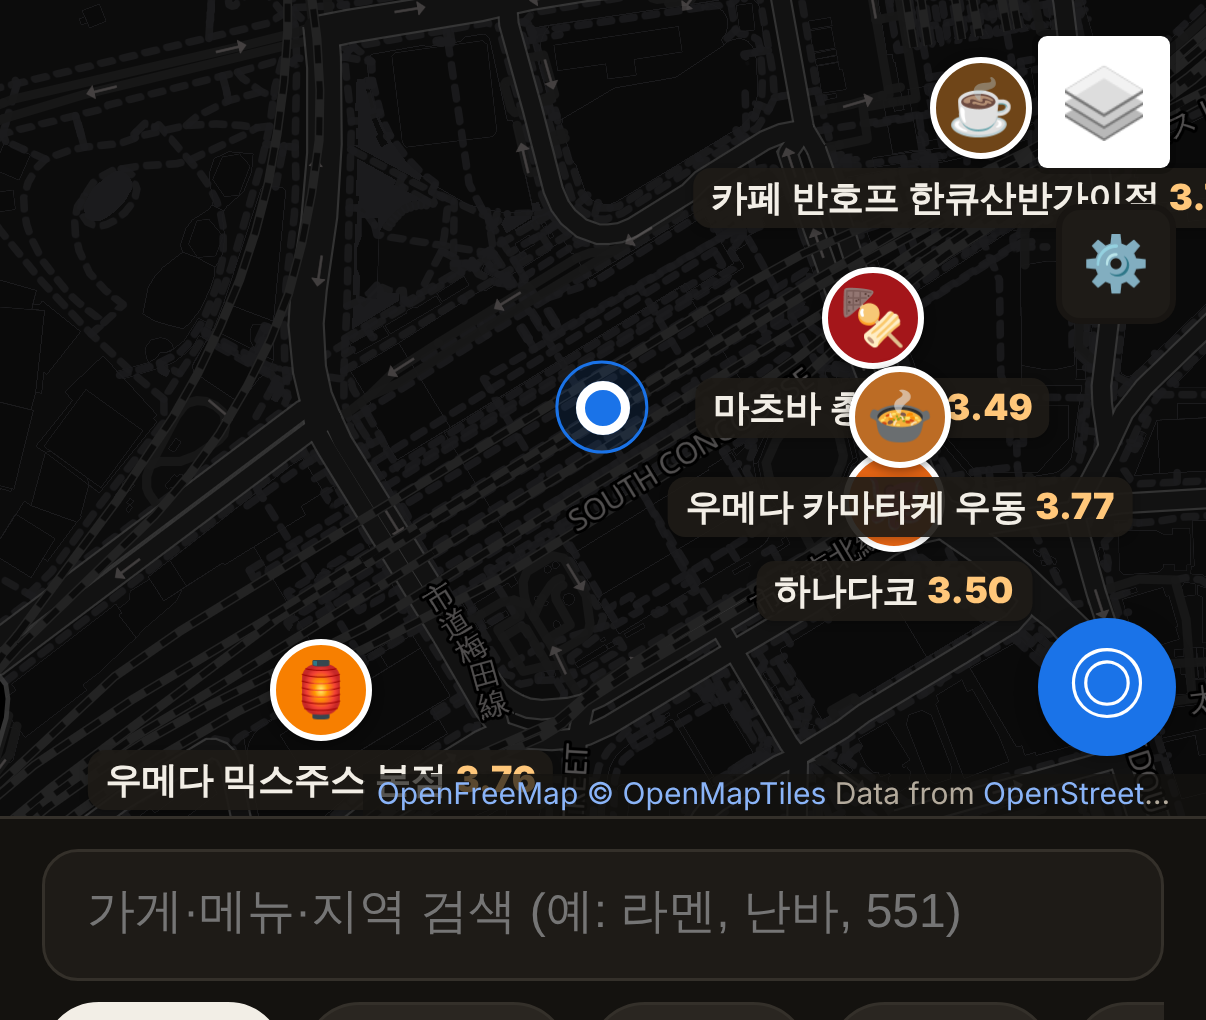
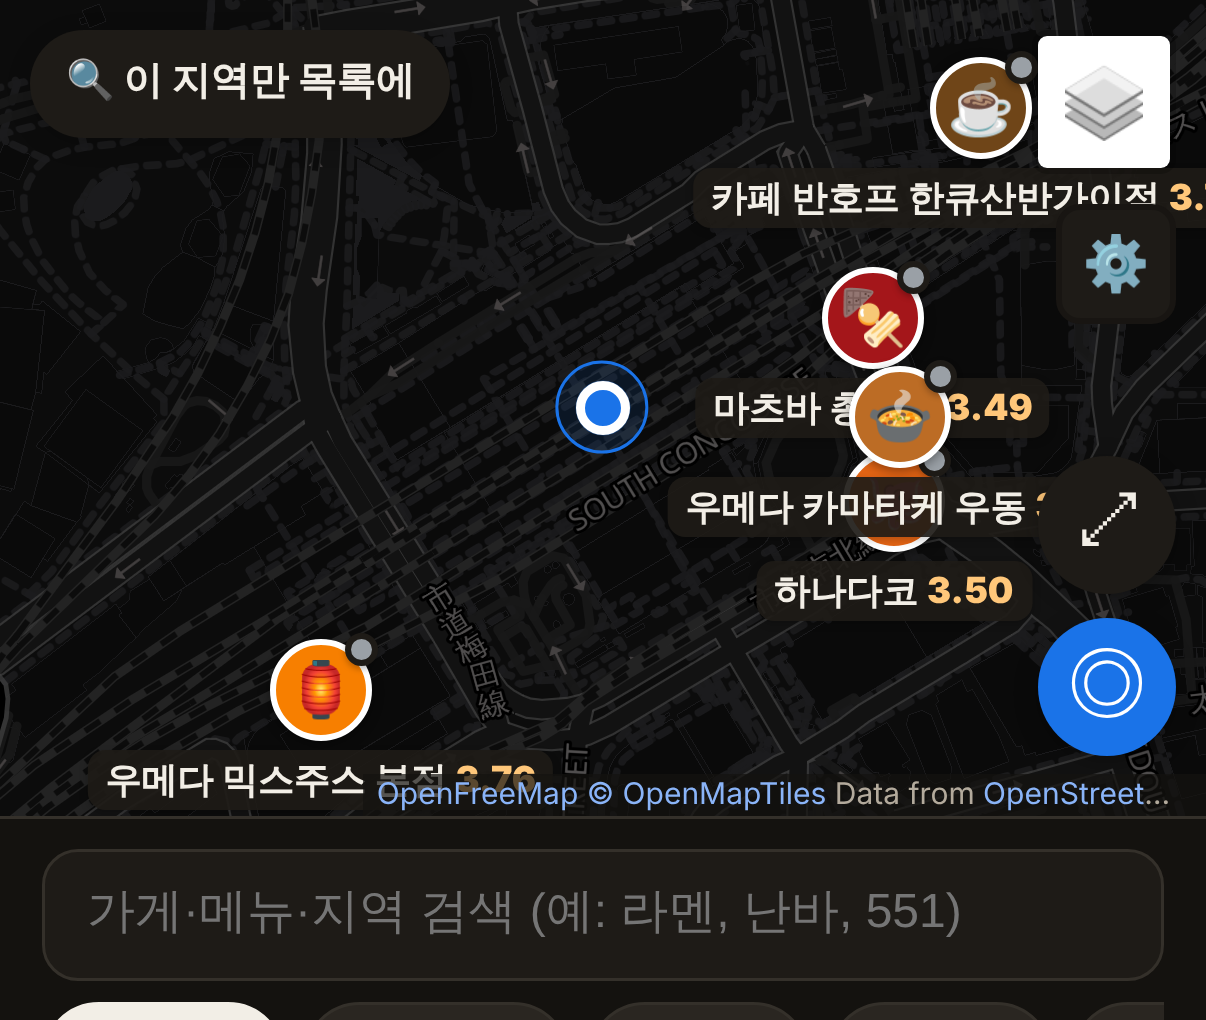
지도 편의 기능: 하단 카드, 지도/목록 크게, 이 지역만, 도보 시간, 영업 상태 점, 길게 눌러 숙소 저장
- 폰: 핀을 누르면 하단 카드(점수·영업 상태·웨이팅·흡연·도보 시간 + 예약/전화·길찾기·자세히), 지도 빈 곳 누르면 닫힘
- 하단 '🗺 지도 / 📋 목록' 전환(지도 크게·목록 크게)
- 🔍 이 지역만 목록에: 지도 화면 안의 가게만 목록에 표시
- 내 위치·기준점이 있으면 '🚶 도보 N분 · 거리'
- 핀에 지금 영업 중(초록)/아님(회색) 점, 5분마다 갱신
- 지도 길게 누르기: 여기 기준 가까운순 / 🏨 숙소로 저장 → '숙소에서 가까운순' 정렬
- ⤢ 결과 전체 보기 버튼

Claude-Session: https://claude.ai/code/session_01KeNKGazFnA21ZH7mvPTVzj

diff --git a/assets/app.js b/assets/app.js
@@ -182,10 +182,12 @@
 
   function pinIcon(r) {
     const c = CAT[r.category] || CAT["기타"];
-    const cls = "pin lv" + r.legend_level + (fav.has(r.id) ? " fav" : "");
+    const cls = "pin lv" + r.legend_level + (fav.has(r.id) ? " fav" : "") + (selId === r.id ? " sel" : "");
+    let dot = "";
+    if (PIN_STATUS) { const st = openStatus(r); if (st) dot = `<i class="sdot sd-${st.s === "open" || st.s === "soon" ? "open" : "closed"}"></i>`; }
     return L.divIcon({
       className: "pin-wrap",
-      html: `<div class="${cls}" style="background:${c.color}">${c.emoji}</div><span class="plabel">${esc(r.name_ko)} <b>${Number(r.tabelog_score).toFixed(2)}</b></span>`,
+      html: `<div class="${cls}" style="background:${c.color}">${c.emoji}</div>${dot}<span class="plabel">${esc(r.name_ko)} <b>${Number(r.tabelog_score).toFixed(2)}</b></span>`,
       iconSize: [34, 34], iconAnchor: [17, 17], popupAnchor: [0, -16],
     });
   }
@@ -195,10 +197,13 @@
   const syncLabels = () => map.getContainer().classList.toggle("show-labels", map.getZoom() >= 16);
   map.on("zoomend", syncLabels);
 
+  let PIN_STATUS = false, selId = null;
+  const USE_CARD = PHONE && !NOMAP; // 폰: 팝업 대신 하단 카드
   const markers = new Map();
   R.forEach((r) => {
     const m = L.marker([r.lat, r.lng], { icon: pinIcon(r), title: r.name_ko, riseOnHover: true, zIndexOffset: r.legend_level * 100 });
-    m.bindPopup(() => popupHtml(r), { maxWidth: 300, minWidth: 260, maxHeight: Math.max(280, Math.round(map.getSize().y * 0.85)), autoPanPadding: [20, 20] });
+    if (USE_CARD) m.on("click", () => showCard(r));
+    else m.bindPopup(() => popupHtml(r), { maxWidth: 300, minWidth: 260, maxHeight: Math.max(280, Math.round(map.getSize().y * 0.85)), autoPanPadding: [20, 20] });
     m.on("popupopen", () => {
       history.replaceState(null, "", "#" + r.id);
       if (state.open !== r.id) {
@@ -540,6 +545,8 @@
       grating: (a, b) => (b.google_rating || 0) - (a.google_rating || 0) || (b.google_reviews || 0) - (a.google_reviews || 0),
       quiet: (a, b) => qOf(b).s - qOf(a).s || (b.tabelog_score || 0) - (a.tabelog_score || 0),
     };
+    const hotel = refHotelSort();
+    if (hotel) { out.forEach((r) => { r._d = map.distance(hotel, [r.lat, r.lng]); }); out.sort((a, b) => a._d - b._d); return out; }
     if (state.me) out.forEach((r) => { r._d = map.distance(state.me, [r.lat, r.lng]); });
     if (sorters[state.sort]) {
       out.sort(sorters[state.sort]);
@@ -627,10 +634,13 @@
   }
 
   function fmtDist(m) { return m < 1000 ? Math.round(m) + "m" : (m / 1000).toFixed(m < 10000 ? 1 : 0) + "km"; }
+  // 도보 80m/분 (일본 부동산 표기 기준)
+  const walk = (m) => (m <= 2500 ? `🚶 ${Math.max(1, Math.round(m / 80))}분 · ${fmtDist(m)}` : `🚃 ${fmtDist(m)}`);
 
   function renderList(rs) {
     const ol = $("list");
-    $("count").textContent = `${rs.length}곳 표시 중` + (fav.size ? ` · 찜 ${fav.size}` : "") + (vis.size ? ` · 방문 ${vis.size}` : "");
+    if (state.inView && !listOnly()) { const b = map.getBounds(); rs = rs.filter((r) => b.contains([r.lat, r.lng])); }
+    $("count").textContent = (state.inView && !listOnly() ? `지도 화면 안 ${rs.length}곳` : `${rs.length}곳 표시 중`) + (fav.size ? ` · 찜 ${fav.size}` : "") + (vis.size ? ` · 방문 ${vis.size}` : "");
     if (!rs.length) { ol.innerHTML = '<li class="empty">조건에 맞는 곳이 없어요.</li>'; return; }
     ol.innerHTML = rs.map((r) => {
       const c = CAT[r.category] || CAT["기타"];
@@ -647,7 +657,7 @@
           ${tbScore(r)}
           <button class="iconbtn ${fav.has(r.id) ? "on" : ""}" data-act="fav" data-id="${r.id}" aria-label="찜">${fav.has(r.id) ? "♥" : "♡"}</button>
           <button class="iconbtn vis ${vis.has(r.id) ? "on" : ""}" data-act="vis" data-id="${r.id}" aria-label="방문">✓</button>
-          ${state.me && r._d != null ? `<span class="dist">${fmtDist(r._d)}</span>` : ""}
+          ${(state.me || refHotelSort()) && r._d != null ? `<span class="dist">${walk(r._d)}</span>` : ""}
         </div>
         ${state.open === r.id ? `<div class="more pp">${detailHtml(r)}</div>` : ""}
       </li>`;
@@ -696,13 +706,55 @@
       return;
     }
     map.setView([r.lat, r.lng], Math.max(map.getZoom(), 16), { animate: false });
-    cluster.zoomToShowLayer(m, () => m.openPopup());
-    if (scrollList) {
+    cluster.zoomToShowLayer(m, () => (USE_CARD ? showCard(r) : m.openPopup()));
+    if (scrollList && !USE_CARD) {
       const el = document.querySelector(`.item[data-id="${id}"]`);
       if (el) el.scrollIntoView({ block: "nearest" });
     }
-    if (window.matchMedia("(max-width: 860px)").matches) window.scrollTo({ top: 0, behavior: "smooth" });
+    if (USE_CARD && document.body.classList.contains("listbig")) setViewMode("split");
   }
+
+  // ---- 폰 하단 카드 (핀을 누르면)
+  function setSel(id) {
+    const prev = selId; selId = id;
+    [prev, id].forEach((x) => { if (x && markers.get(x)) markers.get(x).setIcon(pinIcon(R.find((r) => r.id === x))); });
+  }
+  function showCard(r) {
+    const c = CAT[r.category] || CAT["기타"];
+    const bk = (r.links && r.links.booking) || [];
+    let act = "";
+    if (bk.length && (r.booking_type === "앱예약" || r.booking_type === "원격줄서기")) act = `<a class="cta book" href="${esc(bk[0].url)}" target="_blank" rel="noopener">${r.booking_type === "원격줄서기" ? "🎫 번호표" : "📱 예약"}</a>`;
+    else if (r.phone && r.phone_booking !== false && r.booking_type === "전화예약만") act = `<a class="cta tel" href="${telHref(r.phone)}">📞 전화</a>`;
+    const d = state.me ? map.distance(state.me, [r.lat, r.lng]) : null;
+    const card = $("pcard");
+    card.innerHTML = `<button class="pc-x" data-pc="close" aria-label="닫기">✕</button>
+      <div class="pc-h"><span class="pc-em" style="background:${c.color}22">${c.emoji}</span>
+        <div class="pc-t"><b>${esc(r.name_ko)}</b> <span class="lv">${"★".repeat(r.legend_level)}</span>${r.icon ? " 🏯" : ""}
+          <div class="pc-m">${esc(r.area)} · ${esc(r.category)} · ${YEN[r.price_level] || ""}${d != null ? ` · ${walk(d)}` : ""}</div></div>
+        ${tbScore(r)}</div>
+      <div class="badges">${badgesHtml(r, 4)}</div>
+      <div class="pc-why">${esc(r.why)}</div>
+      <div class="pc-btns">${act}<a class="cta nav" href="${esc(r.links.directions)}" target="_blank" rel="noopener">🧭 길찾기</a><button class="cta more" data-pc="more">📖 자세히</button></div>`;
+    card.hidden = false;
+    card.dataset.id = r.id;
+    setSel(r.id);
+    history.replaceState(null, "", "#" + r.id);
+    state.open = r.id; renderList(current); highlight(r.id);
+  }
+  function hideCard() { const card = $("pcard"); if (card) card.hidden = true; setSel(null); }
+  if ($("pcard")) $("pcard").addEventListener("click", (e) => {
+    const t = e.target.closest("[data-pc]");
+    if (!t) return;
+    if (t.dataset.pc === "close") hideCard();
+    if (t.dataset.pc === "more") {
+      const id = $("pcard").dataset.id;
+      setViewMode("split");
+      hideCard(); // 상세는 목록에서 펼쳐 보여 주므로 카드는 닫기
+      state.open = id; renderList(current);
+      setTimeout(() => { const el = document.querySelector(`.item[data-id="${id}"]`); if (el) el.scrollIntoView({ block: "start", behavior: "smooth" }); }, 120);
+    }
+  });
+  map.on("click", () => { if (USE_CARD) hideCard(); });
 
   // ---- 공유 · 컨시어지 문구 · 찜 경로
   function shareText(r) {
@@ -858,7 +910,8 @@
   $("openNow").addEventListener("click", () => { state.openNow = !state.openNow; update(); });
   $("easyWait").addEventListener("click", () => { state.easyWait = !state.easyWait; update(); });
   $("noSmoke").addEventListener("click", () => { state.noSmoke = !state.noSmoke; update(); });
-  setInterval(() => { if (state.openNow) update(); else renderList(current); }, 5 * 60 * 1000); // 영업 상태 5분마다 갱신
+  const refreshPins = () => { if (NOMAP) return; markers.forEach((m, id) => m.setIcon(pinIcon(R.find((r) => r.id === id)))); };
+  setInterval(() => { if (state.openNow) update(); else renderList(current); refreshPins(); }, 5 * 60 * 1000); // 영업 상태 5분마다 갱신
   $("hideVisited").addEventListener("click", () => { state.hideVisited = !state.hideVisited; update(); });
   $("reset").addEventListener("click", () => {
     Object.assign(state, { q: "", region: "all", level: 0, favOnly: false, hideVisited: false, openNow: false, easyWait: false, noSmoke: false, me: null, sort: "level" });
@@ -903,11 +956,12 @@
   function stopLocate() {
     if (watchId !== null) navigator.geolocation.clearWatch(watchId);
     watchId = null; follow = false; state.me = null; lastSorted = null;
-    [meMarker, meCircle].forEach((x) => x && map.removeLayer(x)); meMarker = meCircle = null;
+    [meMarker, meCircle, refMarker].forEach((x) => x && map.removeLayer(x)); meMarker = meCircle = refMarker = null;
     $("sort").options[0].text = "추천순"; setLocBtn("off"); update();
   }
   function toggleLocate(forceStart) {
     if (!navigator.geolocation) { toast("이 브라우저는 위치 정보를 지원하지 않아요"); return; }
+    if (watchId === null && refMarker) { map.removeLayer(refMarker); refMarker = null; state.me = null; }
     if (watchId !== null && !forceStart) {
       if (!follow && state.me) { follow = true; setLocBtn("follow"); map.setView(state.me, Math.max(map.getZoom(), 16)); return; }
       stopLocate(); return;
@@ -921,7 +975,7 @@
   }
 
   $("locate").addEventListener("click", () => {
-    if (state.me) { stopLocate(); return; }
+    if (state.me && watchId !== null) { stopLocate(); return; }
     state.sort = "level"; $("sort").value = "level";
     if (listOnly() && !NOMAP) setListBig(false);
     toggleLocate(true);
@@ -943,18 +997,93 @@
   const _renderChips = renderChips;
   renderChips = function () { _renderChips(); syncMore(); };
 
-  // 모바일 보기 전환 (지도+목록 ↔ 목록 크게)
-  const viewBtn = $("viewToggle");
-  function setListBig(on) {
-    document.body.classList.toggle("listbig", on);
-    if (viewBtn) viewBtn.textContent = on ? "🗺 지도 보기" : "📋 목록 크게";
-    if (!on) setTimeout(() => map.invalidateSize(), 60);
+  // 모바일 보기: split(지도+목록) / map(지도 크게) / list(목록 크게)
+  function setViewMode(mode) {
+    document.body.classList.toggle("listbig", mode === "list");
+    document.body.classList.toggle("mapbig", mode === "map");
+    document.querySelectorAll("#viewSeg [data-view]").forEach((b) => b.setAttribute("aria-pressed", String(b.dataset.view === mode)));
+    if (mode !== "list") setTimeout(() => map.invalidateSize(), 60);
+    if (mode === "list") hideCard();
   }
-  if (viewBtn) viewBtn.addEventListener("click", () => setListBig(!document.body.classList.contains("listbig")));
+  const setListBig = (on) => setViewMode(on ? "list" : "split");
+  const curMode = () => (document.body.classList.contains("mapbig") ? "map" : document.body.classList.contains("listbig") ? "list" : "split");
+  document.querySelectorAll("#viewSeg [data-view]").forEach((b) => b.addEventListener("click", () => setViewMode(curMode() === b.dataset.view ? "split" : b.dataset.view)));
+
+  // ---- 이 지역 가게만 목록에
+  const AreaCtl = L.Control.extend({
+    options: { position: "topleft" },
+    onAdd() {
+      const b = L.DomUtil.create("button", "areabtn");
+      b.type = "button"; b.textContent = "🔍 이 지역만 목록에";
+      L.DomEvent.disableClickPropagation(b);
+      L.DomEvent.on(b, "click", () => { state.inView = !state.inView; b.setAttribute("aria-pressed", String(state.inView)); renderList(current); if (state.inView) toast("지도를 움직이면 화면 안의 가게만 목록에 보여요"); });
+      return b;
+    },
+  });
+  if (!NOMAP) new AreaCtl().addTo(map);
+  let inViewTimer;
+  map.on("moveend", () => { if (state.inView) { clearTimeout(inViewTimer); inViewTimer = setTimeout(() => renderList(current), 150); } });
+
+  // ---- 결과 전체 보기
+  const FitCtl = L.Control.extend({
+    options: { position: "bottomright" },
+    onAdd() {
+      const b = L.DomUtil.create("button", "fitbtn");
+      b.type = "button"; b.title = "결과 전체 보기"; b.textContent = "⤢";
+      L.DomEvent.disableClickPropagation(b);
+      L.DomEvent.on(b, "click", () => { if (current.length) map.fitBounds(L.latLngBounds(current.map((r) => [r.lat, r.lng])).pad(0.08), { maxZoom: 15 }); });
+      return b;
+    },
+  });
+  if (!NOMAP) new FitCtl().addTo(map);
+
+  // ---- 길게 누르기(또는 오른쪽 클릭): 여기 기준 가까운순 / 숙소로 저장
+  const HOTEL_LS = "matzip:hotel";
+  let hotel = null, hotelMarker = null, refMarker = null;
+  try { hotel = JSON.parse(localStorage.getItem(HOTEL_LS) || "null"); } catch (e) { /* */ }
+  function refHotelSort() { return state.sort === "hotel" && hotel ? L.latLng(hotel.lat, hotel.lng) : null; }
+  function drawHotel() {
+    if (hotelMarker) { map.removeLayer(hotelMarker); hotelMarker = null; }
+    const opt = document.querySelector('#sort option[value="hotel"]');
+    if (hotel) {
+      hotelMarker = L.marker([hotel.lat, hotel.lng], { icon: L.divIcon({ className: "", html: '<div class="hotel-pin">🏨</div>', iconSize: [34, 34], iconAnchor: [17, 17] }), zIndexOffset: 1500 })
+        .bindPopup('<div class="ctx"><b>🏨 내 숙소</b><button data-ctx="hotelsort">숙소에서 가까운순</button><button data-ctx="hoteldel">숙소 지우기</button></div>').addTo(map);
+      if (!opt) { const o = document.createElement("option"); o.value = "hotel"; o.textContent = "🏨 숙소에서 가까운순"; $("sort").appendChild(o); }
+    } else if (opt) { if (state.sort === "hotel") { state.sort = "level"; $("sort").value = "level"; } opt.remove(); }
+  }
+  if (!NOMAP) drawHotel();
+  map.on("contextmenu", (e) => {
+    L.popup({ closeButton: true, className: "ctxpop" }).setLatLng(e.latlng)
+      .setContent('<div class="ctx"><button data-ctx="here">📍 여기 기준으로 가까운순</button><button data-ctx="hotel">🏨 여기를 숙소로 저장</button></div>')
+      .openOn(map);
+    map._ctxLatLng = e.latlng;
+  });
+  map.getContainer().addEventListener("click", (e) => {
+    const t = e.target.closest("[data-ctx]");
+    if (!t) return;
+    const ll = map._ctxLatLng;
+    if (t.dataset.ctx === "here" && ll) {
+      if (watchId !== null) stopLocate();
+      if (refMarker) map.removeLayer(refMarker);
+      refMarker = L.marker(ll, { icon: L.divIcon({ className: "", html: '<div class="ref-pin">📍</div>', iconSize: [30, 30], iconAnchor: [15, 28] }), zIndexOffset: 1500 }).addTo(map);
+      state.me = ll; state.sort = "level"; $("sort").value = "level"; $("sort").options[0].text = "가까운순 (선택한 곳)";
+      map.closePopup(); update(); if (curMode() === "map") setViewMode("split");
+      toast("선택한 곳에서 가까운 순으로 정렬했어요");
+    }
+    if (t.dataset.ctx === "hotel" && ll) {
+      hotel = { lat: ll.lat, lng: ll.lng };
+      try { localStorage.setItem(HOTEL_LS, JSON.stringify(hotel)); } catch (err) { /* */ }
+      map.closePopup(); drawHotel(); toast("숙소를 저장했어요 — 정렬에서 '숙소에서 가까운순'을 고르세요");
+    }
+    if (t.dataset.ctx === "hotelsort") { state.sort = "hotel"; $("sort").value = "hotel"; map.closePopup(); update(); if (curMode() === "map") setViewMode("split"); }
+    if (t.dataset.ctx === "hoteldel") { hotel = null; try { localStorage.removeItem(HOTEL_LS); } catch (err) { /* */ } map.closePopup(); drawHotel(); update(); }
+  });
 
   // ------------------------------------------------------------------ init
   $("sub").textContent = Object.entries(D.regions).map(([k, v]) => `${v.ko} ${R.filter((r) => r.region === k).length}`).join(" · ") + ` · 총 ${R.length}곳`;
   $("gen").textContent = `데이터 기준일 ${D.generated}`;
+  PIN_STATUS = true;
+  refreshPins();
   update(true, false);
   const hash = decodeURIComponent(location.hash.slice(1));
   if (hash && markers.has(hash)) setTimeout(() => openPlace(hash, true), 100);

diff --git a/assets/style.css b/assets/style.css
@@ -376,3 +376,57 @@ button, .chip, .cta, a { touch-action: manipulation; }
 @media (prefers-color-scheme: dark) { .cform1 input { background: #14120f; color: var(--ink); border-color: var(--line); } .linkbtn { color: #8ab4f8; } }
 .gearbtn { width: 40px; height: 40px; border-radius: 8px; border: 2px solid rgba(0,0,0,.2); background: #fff; font-size: 18px; cursor: pointer; }
 @media (prefers-color-scheme: dark) { .gearbtn { background: #1e1b17; } }
+
+/* =========================================================
+   지도 편의: 하단 카드, 보기 전환, 이 지역만, 상태 점, 길게 누르기 메뉴
+   ========================================================= */
+.mapwrap { position: relative; }
+.pcard { position: absolute; left: 8px; right: 8px; bottom: calc(8px + env(safe-area-inset-bottom)); z-index: 1100;
+  background: var(--card); color: var(--ink); border-radius: 16px; padding: 12px 14px 12px; box-shadow: 0 8px 28px #0005; max-height: 70%; overflow: auto; }
+.pcard .pc-x { position: absolute; right: 8px; top: 6px; border: none; background: transparent; font-size: 18px; color: var(--muted); width: 36px; height: 36px; cursor: pointer; }
+.pc-h { display: grid; grid-template-columns: 40px 1fr auto; gap: 10px; align-items: center; padding-right: 28px; }
+.pc-em { width: 40px; height: 40px; border-radius: 50%; display: grid; place-items: center; font-size: 21px; }
+.pc-t b { font-size: 17px; }
+.pc-t .lv { color: var(--gold); font-size: 13px; }
+.pc-m { font-size: 13px; color: var(--muted); margin-top: 2px; }
+.pcard .badges { margin-top: 8px; display: flex; flex-wrap: wrap; gap: 5px; }
+.pc-why { font-size: 14px; line-height: 1.5; margin-top: 8px; display: -webkit-box; -webkit-line-clamp: 2; -webkit-box-orient: vertical; overflow: hidden; }
+.pc-btns { display: grid; grid-auto-flow: column; grid-auto-columns: 1fr; gap: 8px; margin-top: 10px; }
+.pc-btns .cta { padding: 12px 6px; font-size: 15px; border-radius: 12px; }
+.pc-btns .cta.more { background: var(--chip); color: var(--ink); border: 1px solid var(--line); }
+.pin.sel { transform: scale(1.25); box-shadow: 0 0 0 3px #1a73e8, 0 2px 8px #0006; }
+.sdot { position: absolute; right: -2px; top: -2px; width: 11px; height: 11px; border-radius: 50%; border: 2px solid #fff; box-shadow: 0 1px 2px #0004; }
+.sd-open { background: #1e8e3e; }
+.sd-closed { background: #9aa0a6; }
+.areabtn { border: none; border-radius: 999px; padding: 8px 12px; background: #fff; color: #1f1d1a; font-size: 13px; font-weight: 700; box-shadow: 0 2px 8px #0003; cursor: pointer; }
+.areabtn[aria-pressed="true"] { background: #1a73e8; color: #fff; }
+.fitbtn { width: 46px; height: 46px; border-radius: 50%; border: none; background: #fff; color: #5f6368; font-size: 22px; box-shadow: 0 2px 8px #0004; cursor: pointer; margin-bottom: 8px !important; }
+.ctx { display: flex; flex-direction: column; gap: 6px; min-width: 190px; }
+.ctx button { padding: 10px 12px; border-radius: 10px; border: 1px solid var(--line); background: #fff; font-size: 14px; font-weight: 600; cursor: pointer; text-align: left; }
+.hotel-pin, .ref-pin { font-size: 26px; filter: drop-shadow(0 2px 3px #0006); }
+.viewseg { display: none; }
+@media (max-width: 860px) {
+  .viewtoggle { display: none !important; }
+  .viewseg { display: flex; position: fixed; left: 50%; transform: translateX(-50%); bottom: calc(12px + env(safe-area-inset-bottom)); z-index: 1500;
+    background: #1f1d1a; border-radius: 999px; padding: 4px; gap: 4px; box-shadow: 0 6px 18px #0005; }
+  .viewseg button { border: none; background: transparent; color: #fff; font-size: 14px; font-weight: 700; padding: 8px 14px; border-radius: 999px; cursor: pointer; }
+  .viewseg button[aria-pressed="true"] { background: #fff; color: #1f1d1a; }
+  body.nomap .viewseg { display: none; }
+  body.mapbig .app { grid-template-rows: 1fr; }
+  body.mapbig .panel { display: none; }
+  body.mapbig .mapwrap { grid-row: 1; }
+  body.mapbig .pcard { bottom: calc(64px + env(safe-area-inset-bottom)); }
+  .pcard { left: 6px; right: 6px; }
+}
+@media (prefers-color-scheme: dark) {
+  .areabtn, .fitbtn { background: #1e1b17; color: #f2eee6; }
+  .ctx button { background: #1e1b17; color: #f2eee6; border-color: var(--line); }
+  .viewseg { background: #f2eee6; }
+  .viewseg button { color: #14120f; }
+  .viewseg button[aria-pressed="true"] { background: #14120f; color: #f2eee6; }
+  .sdot { border-color: #1e1b17; }
+}
+@media (max-width: 860px) {
+  body.mapbig .leaflet-bottom { margin-bottom: calc(58px + env(safe-area-inset-bottom)); }
+  body.mapbig .leaflet-bottom .leaflet-control-attribution { margin-bottom: 0; }
+}

diff --git a/index.html b/index.html
@@ -79,10 +79,11 @@
 
     <main class="mapwrap">
       <div id="map" aria-label="맛집 지도"></div>
+      <div id="pcard" class="pcard" hidden></div>
     </main>
   </div>
 
-  <button id="viewToggle" class="viewtoggle" type="button">📋 목록 크게</button>
+  <div id="viewSeg" class="viewseg" role="group" aria-label="보기 전환"><button type="button" data-view="map" aria-pressed="false">🗺 지도</button><button type="button" data-view="list" aria-pressed="false">📋 목록</button></div>
   <div id="toast" class="toast" role="status" hidden></div>
 
   <dialog id="setDlg" class="dlg">

diff --git a/sw.js b/sw.js
@@ -1,6 +1,6 @@
 // 오프라인 지원: 한 번 열어 두면 로밍이 끊겨도 목록·상세가 열리도록 앱 파일과 데이터를 저장.
 // 지도 타일은 저장하지 않음(용량). GitHub Pages 등 https 에서만 동작.
-const CACHE = "matzip-v3";
+const CACHE = "matzip-v4";
 const SHELL = [
   "./", "./index.html", "./list.html", "./manifest.webmanifest",
   "./assets/style.css", "./assets/app.js", "./assets/config.js", "./data/restaurants.js",

diff --git a/README.md b/README.md
@@ -47,7 +47,9 @@
 | ⏳ 얼마나 기다리나 | **예상 웨이팅** 배지(~15분 / 15~45분 / 45분+), 추천 방문 시간, 번호표·조기 품절 정보 · **웨이팅 짧은 곳** 필터 — 최근 타베로그 후기 등 기반 예상치(실시간 아님) |
 | 📱 예약 | 온라인 예약 가능 → **지금 예약하기** 버튼 (TableCheck·타베로그는 한국어 페이지로) / 전화만 → **📞 전화 버튼** + **🏨 예약 부탁 문구**(날짜·인원 넣으면 호텔 프런트에 보여줄 일본어 문장 생성) |
 | 🗺 지도 | **한국어 지도**(OpenFreeMap 벡터, 지명 한국어 → 없으면 영어) · 폰 다크 모드면 어두운 지도 · 확대하면 핀 아래 **가게 이름·타베로그 점수** · 레이어에서 일본어 OSM/지리원 지도로 전환 |
-| 📍 내 위치 | 지도 오른쪽 아래 **◎**: 파란 점·정확도 원, 걸으면 따라감(지도를 움직이면 멈춤 → ◎ 다시 누르면 복귀, 한 번 더 누르면 끄기) · 목록이 **가까운순**으로 실시간 정렬 |
+| 🧭 지도 쓰기 | 폰: 핀을 누르면 **하단 카드**(점수·영업 상태·웨이팅·흡연·도보 시간 + 예약/전화·길찾기·자세히) · 아래 **🗺 지도 / 📋 목록** 버튼으로 지도 크게·목록 크게 · **🔍 이 지역만 목록에**(지도에 보이는 가게만) · **⤢** 결과 전체 보기 · 핀의 **초록/회색 점** = 지금 영업 중/아님 |
+| 📌 길게 누르기 | 지도를 길게 누르면 **여기 기준 가까운순** / **🏨 숙소로 저장** → 정렬에서 "숙소에서 가까운순"(다음 날 동선 짤 때) |
+| 📍 내 위치 | 지도 오른쪽 아래 **◎**: 파란 점·정확도 원, 걸으면 따라감(지도를 움직이면 멈춤 → ◎ 다시 누르면 복귀, 한 번 더 누르면 끄기) · 목록이 **가까운순**으로 실시간 정렬, **🚶 도보 N분** 표시 |
 | 🧭 이동 | **구글맵 길찾기**(대중교통) · 구글맵에서 보기 — 폰에서는 구글맵 앱으로 바로 열림 |
 | ♥ 동선 짜기 | 찜 → **🗺 찜한 곳 구글맵 경로**(가까운 순으로 이어서 다구간 경로) · **📤 찜 목록 공유** |
 | 🔗 일행과 공유 | 가게별 **일행에게 공유**(카톡 등으로 이름·타베로그·구글맵·예약 링크 전송) |
